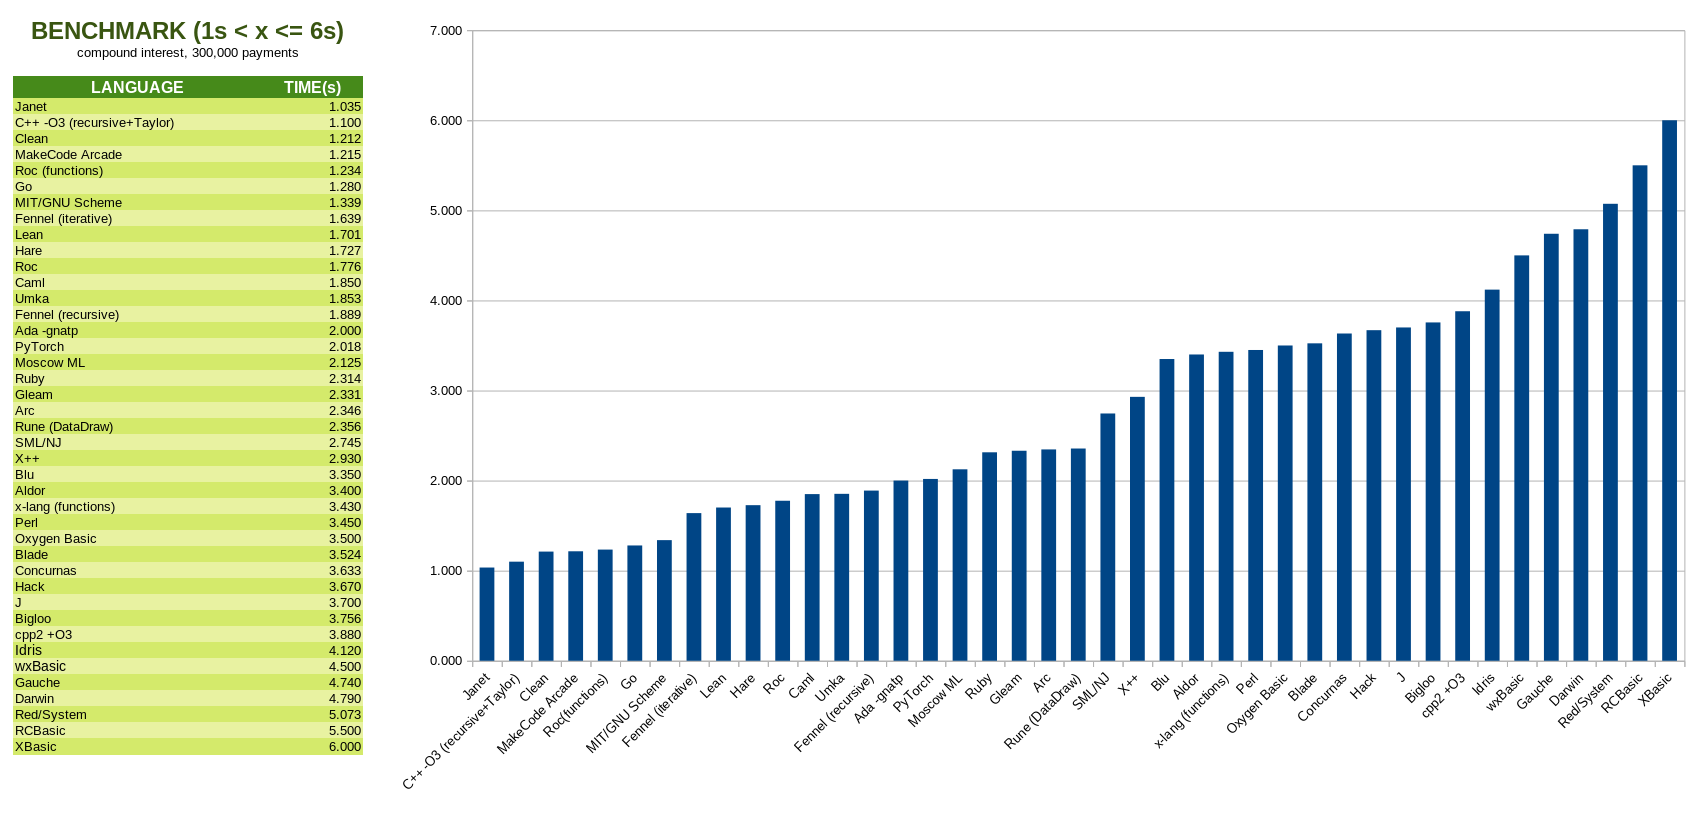
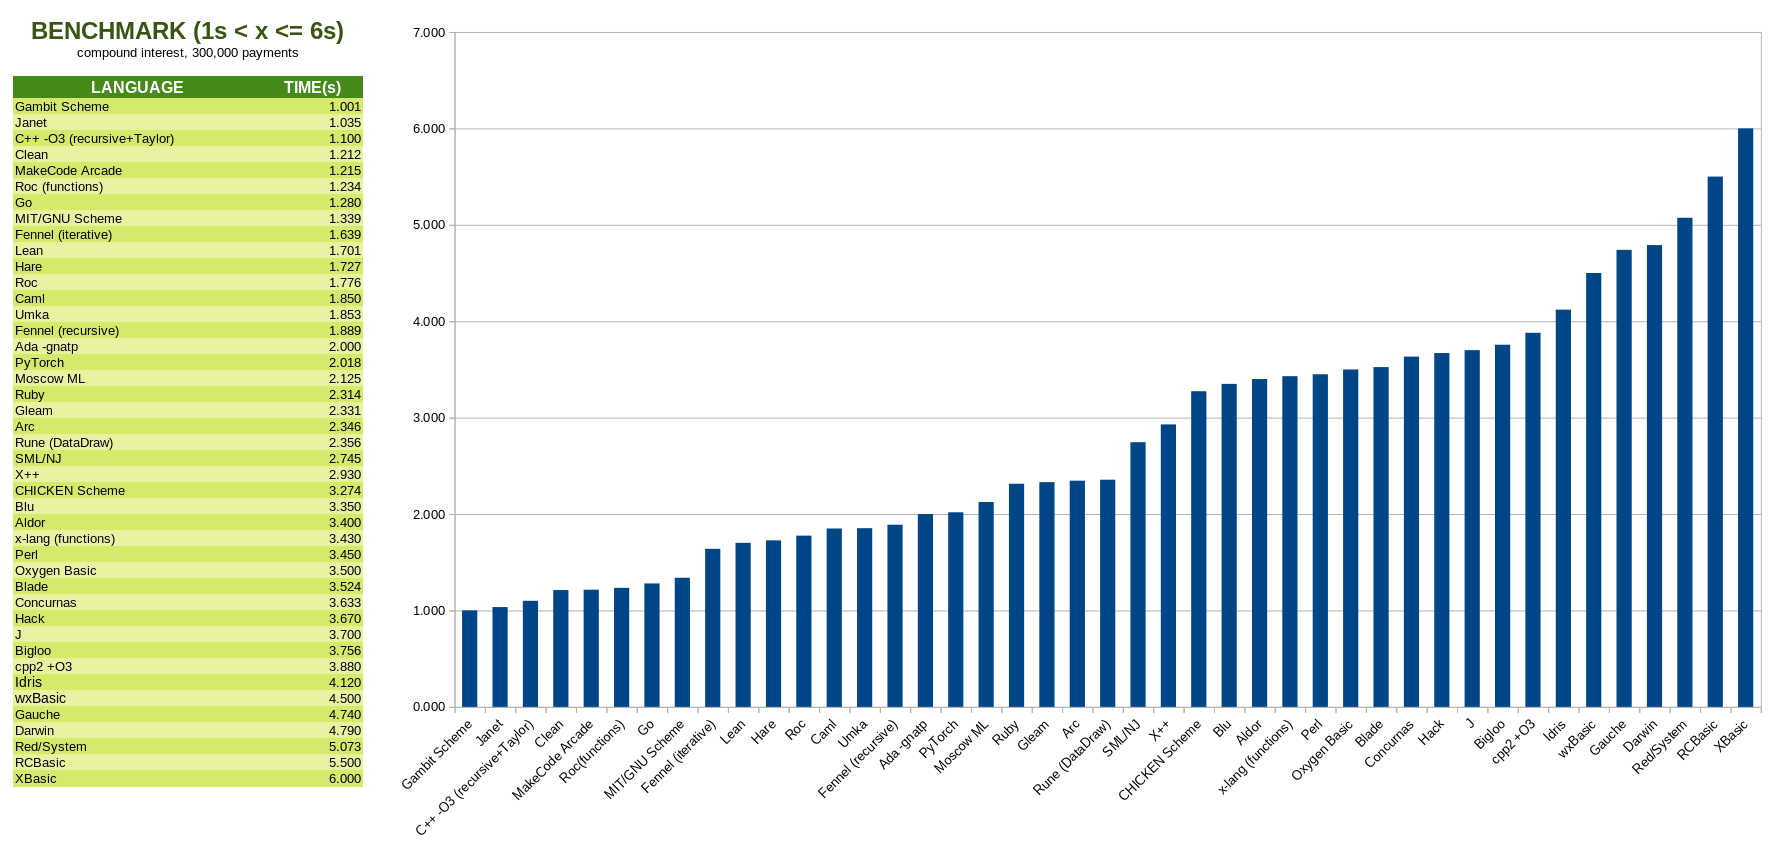
Add files via upload
+ benchmarks de equivalentes a Scheme (MIT/GNU)

diff --git a/SOLUCOES.md b/SOLUCOES.md
@@ -1883,7 +1883,7 @@ bsh = Java<br>
 cbmbasic = Commodore 64 BASIC<br>
 Cerberus X = Monkey 2<br>
 Ch = C<br>
-Chez Scheme = Scheme<br>
+Chez Scheme = Scheme + 🚀<br> 
 CHICKEN = Scheme<br>
 Circle = C<br>
 ClosureScript = Squint<br>
@@ -1896,7 +1896,7 @@ Delégua = Égua<br>
 Dragon 32 BASIC = TRS-80 BASIC<br>
 eLua = Lua<br>
 Free Pascal = Pascal<br>
-Gambit = Scheme<br>
+Gambit = Scheme + 🚀<br>
 gawk = awk<br>
 Generic Java = Java<br>
 Gerbil Scheme = Kawa/Steel<br>
